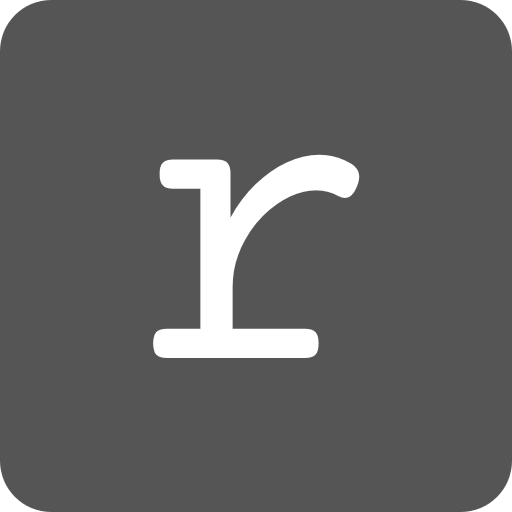
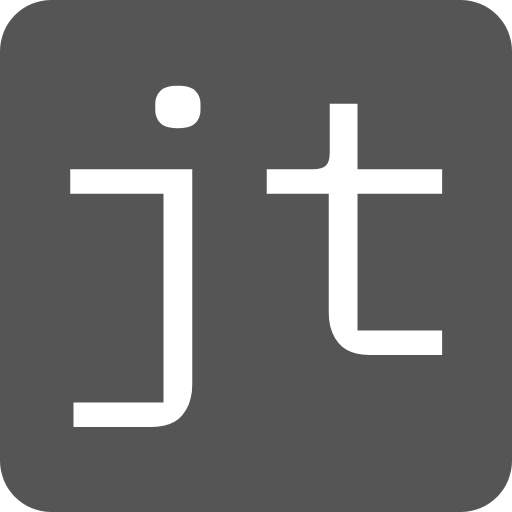
fav

Changed region(s): [[0.125, 0.1875, 0.875, 0.8438], [0.2812, 0.1562, 0.4062, 0.25]]

diff --git a/_includes/favicons.html b/_includes/favicons.html
@@ -1,2 +1,4 @@
-<link rel="apple-touch-icon-precomposed" sizes="144x144" href="{{ site.baseurl }}/favicon.png" />
-<link rel="shortcut icon" href="{{ site.baseurl }}/favicon.ico" />
+<link rel="apple-touch-icon" sizes="180x180" href="/apple-touch-icon.png">
+<link rel="icon" type="image/png" sizes="32x32" href="/favicon-32x32.png">
+<link rel="icon" type="image/png" sizes="16x16" href="/favicon-16x16.png">
+<link rel="manifest" href="/site.webmanifest">
